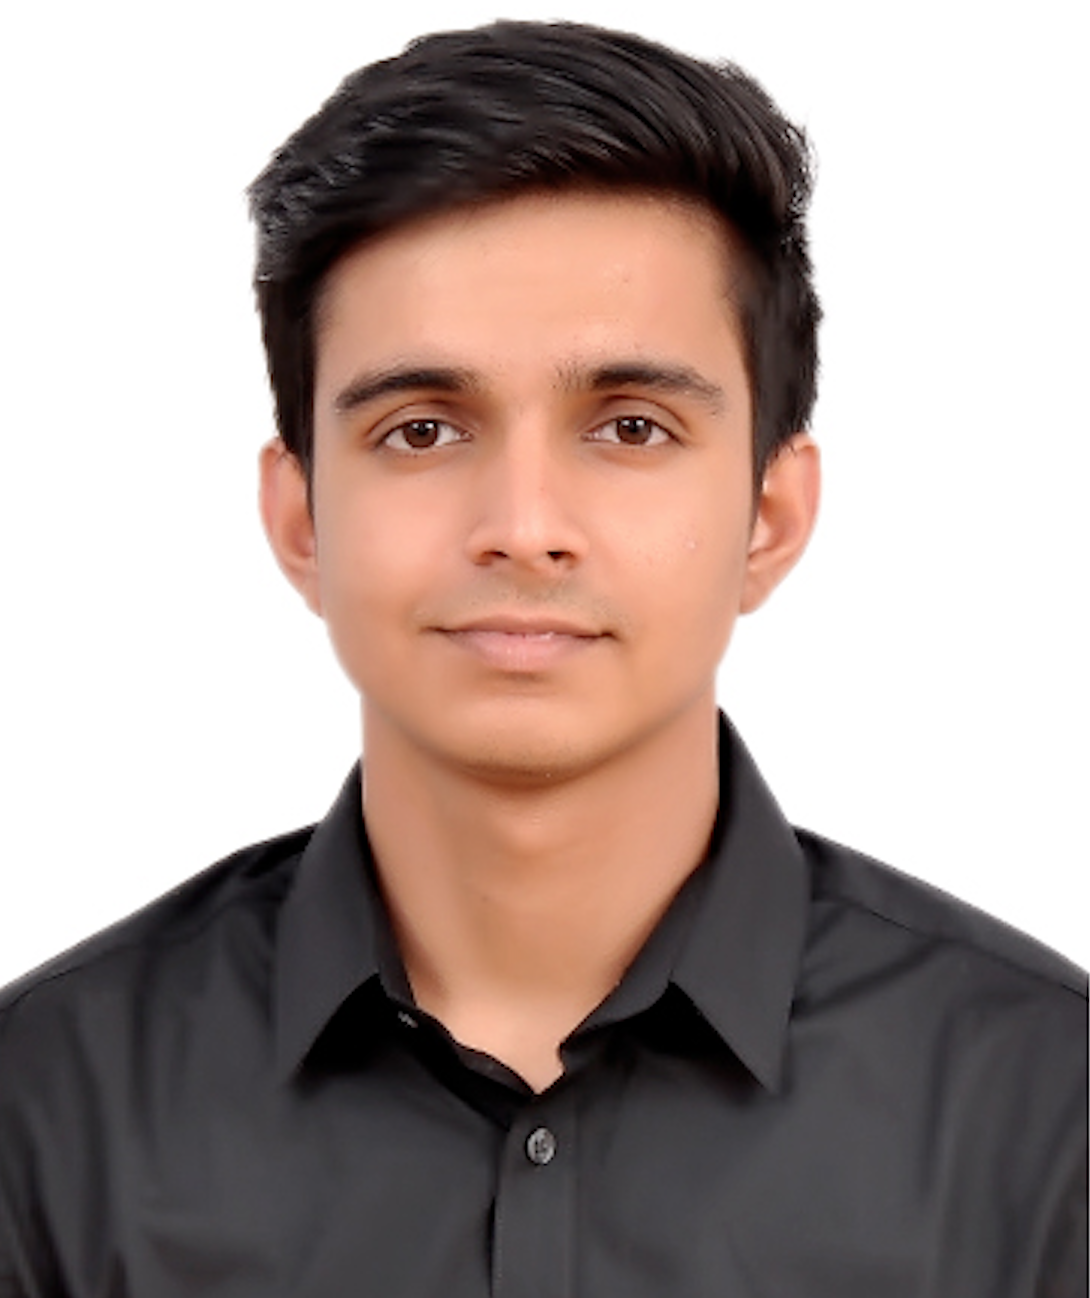
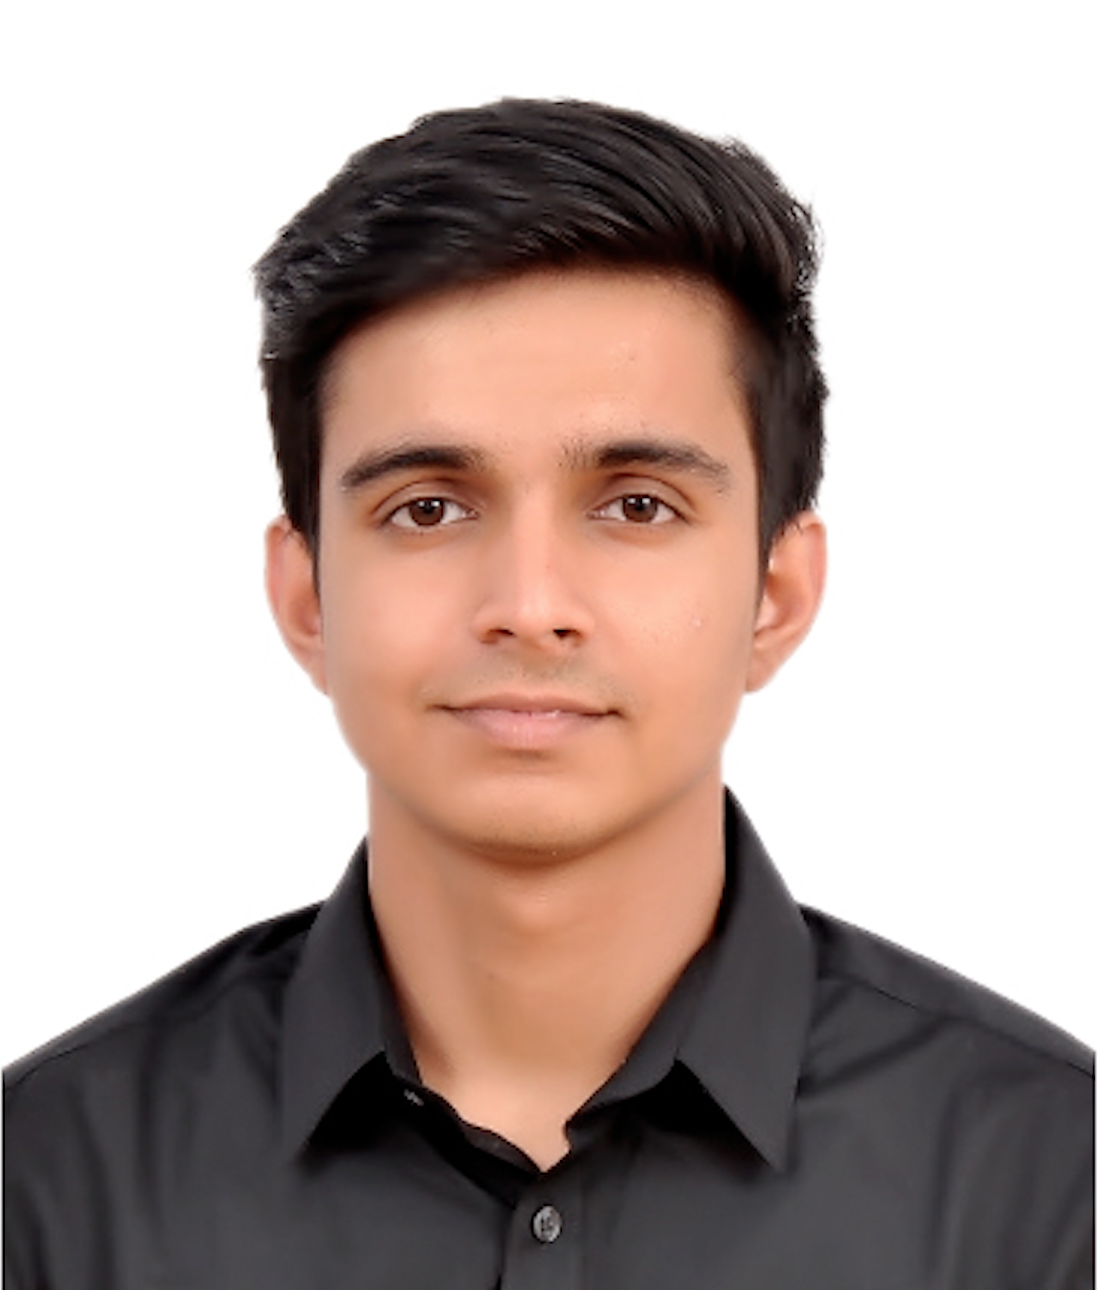
photo2

diff --git a/index.html b/index.html
@@ -41,7 +41,7 @@
       <div class="page-header-image" data-parallax="true" style="background-image: url('images/cc-bg-1.jpg');"></div>
       <div class="container">
         <div class="content-center">
-          <div class="cc-profile-image"><a href="#"><img src="images/lakshay.jpg" alt="Image"/></a></div>
+          <div class="cc-profile-image" style="filter:brightness(85%);"><a href="#"><img src="images/lakshay.jpg" alt="Image"/></a></div>
           <div class="h2 title">Lakshay Arora</div>
           <p class="category text-white">Computer Science Engineer</p><a class="btn btn-primary smooth-scroll mr-2" href="#contact" data-aos="zoom-in" style="width: 155px;" data-aos-anchor="data-aos-anchor">Contact Me</a><a class="btn btn-primary" href="resume/resume.pdf" data-aos="zoom-in" data-aos-anchor="data-aos-anchor" style="width: 155px;">Download Resume</a>
         </div>
